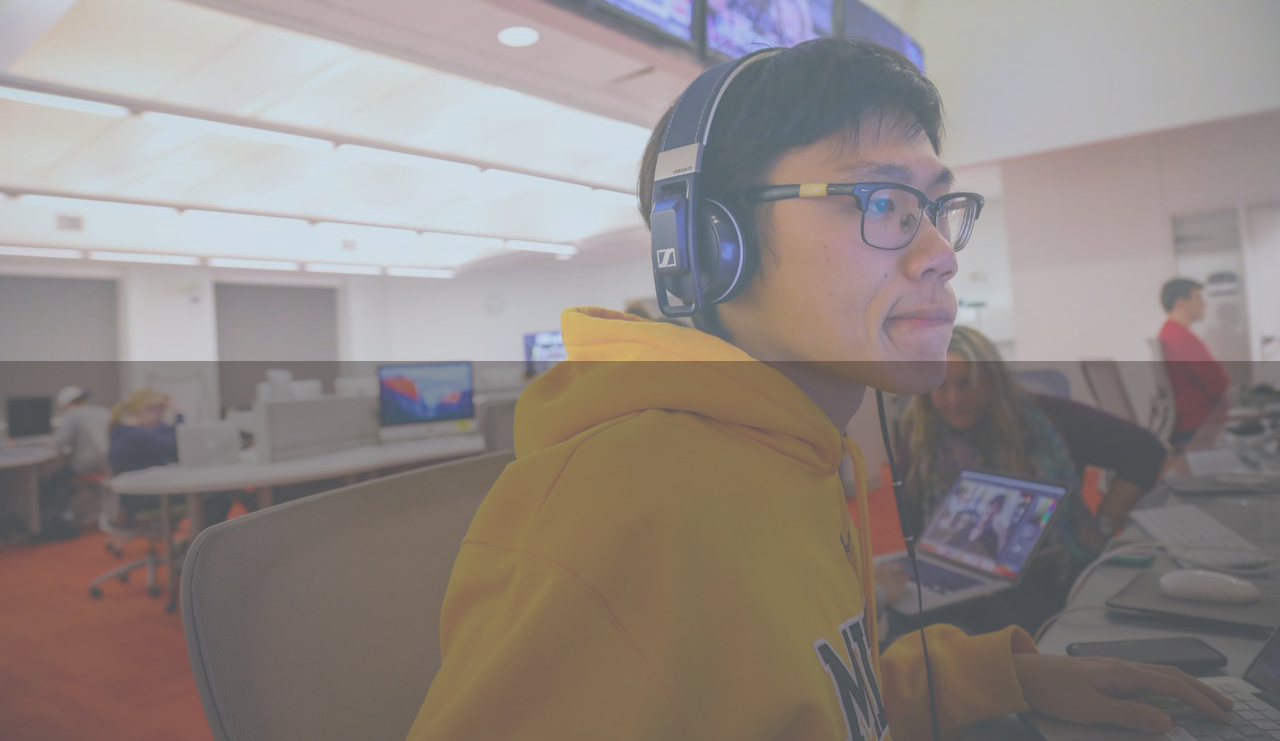
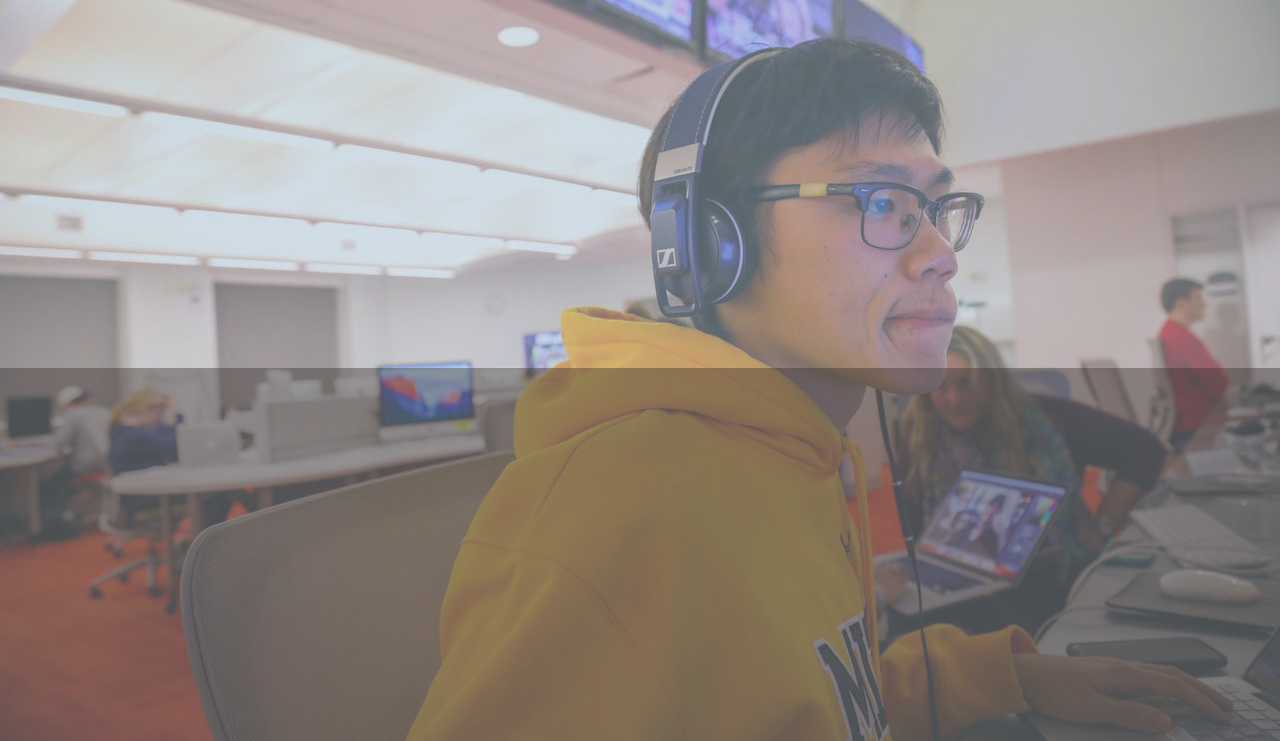
fix background

Changed region(s): [[0.0, 0.4656, 1.0, 0.4966]]

diff --git a/index.html b/index.html
@@ -5,7 +5,7 @@
 <link href="https://fonts.googleapis.com/css?family=Frank+Ruhl+Libre|Oswald|Rajdhani" rel="stylesheet">
 </head>
 <body>
-  <div id="backgroundimage">
+  <div class="backgroundimage">
   	<header>
       <ul>
         &nbsp;
@@ -37,13 +37,12 @@ When I'm not shooting <strong style="color: #FCB332; font-size: 20px"> photos or
 data</strong> and spend unhealthy amount of time visualizing interesting <strong style="color: #193461; font-size: 20px">facts</strong>. Here is where I complile the finished products.
 </p>
 <p>
-Also, I like football (soccer), F1 racing and movies. <strong style="color: #CB1545; font-size: 20px">COYG!</strong>
+Also, I like football (soccer), F1 racing and movies.
 </p>
 &nbsp;
 <pre> </pre>
 <pre> </pre>
 &nbsp;
-
 </div>
 
 <span style="text-align: center;"><a href="https://www.america.cgtn.com" target="_blank"><img id="cgtnamerica" src="CGTN America.png" alt="CGTN America" style="width:200px;

diff --git a/stylesheet.css b/stylesheet.css
@@ -29,19 +29,31 @@ p {
   line-height: 30px;
 }
 
-#backgroundimage {
-  background: url(1.png);
+html,
+body {
+height: 100%;
+margin:0;
+padding:0;
+}
+
+.backgroundimage {
+  background: url(1.png) no-repeat center center fixed;
   background-size: cover;
   -webkit-background-size: cover;
   -moz-background-size: cover;
   -o-background-size: cover;
-  background-size: cover;
   background-repeat: no-repeat;
-  background-position: center;
-  margin: 0;
-  padding: 0;
+  background-position: center center;
+  background-attachment: fixed;
+  margin: none;
+  padding: none;
   width:100%;
   height:100%;
+  top: 0px;
+  left: 0px;
+  right: 0px;
+  bottom: 0px;
+  box-sizing:content-box;
 }
 
 #headshot {
@@ -245,4 +257,5 @@ body {
     font-family: 'Lato', sans-serif;
     color: #FFF;
     background: #164D70;
+    height: 100%;
 }
